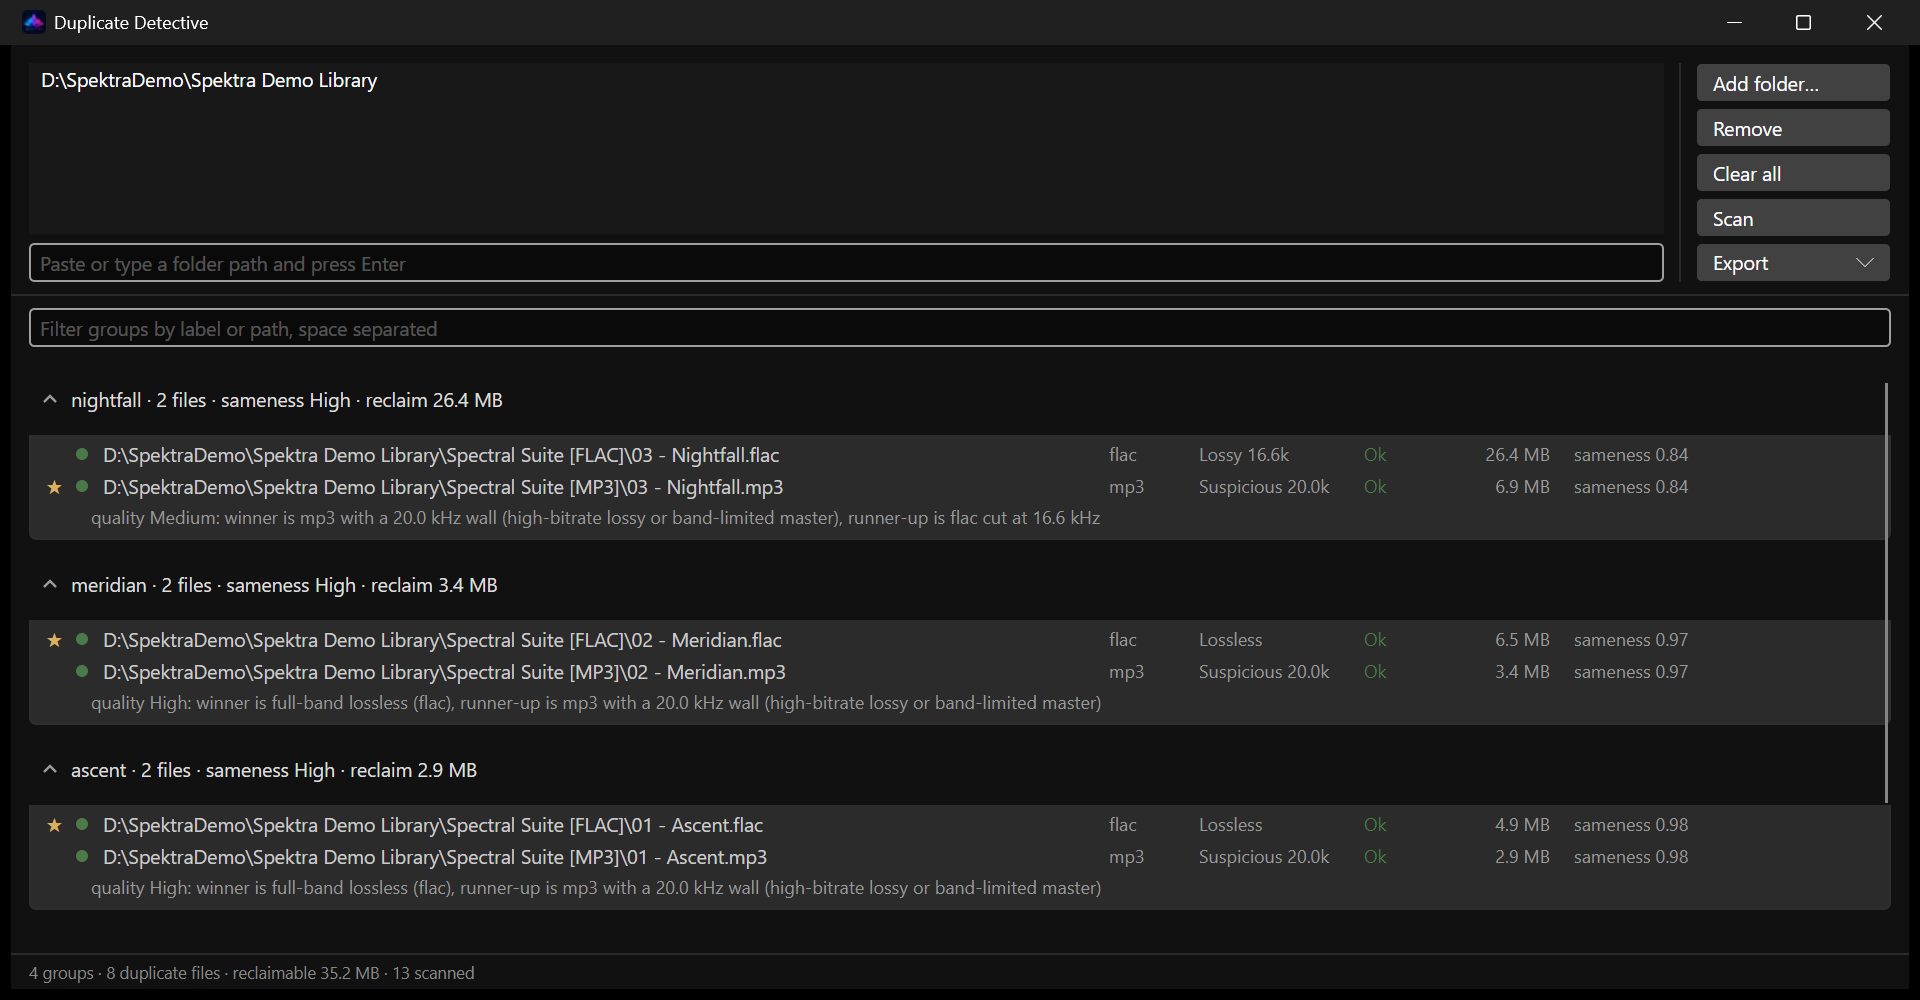
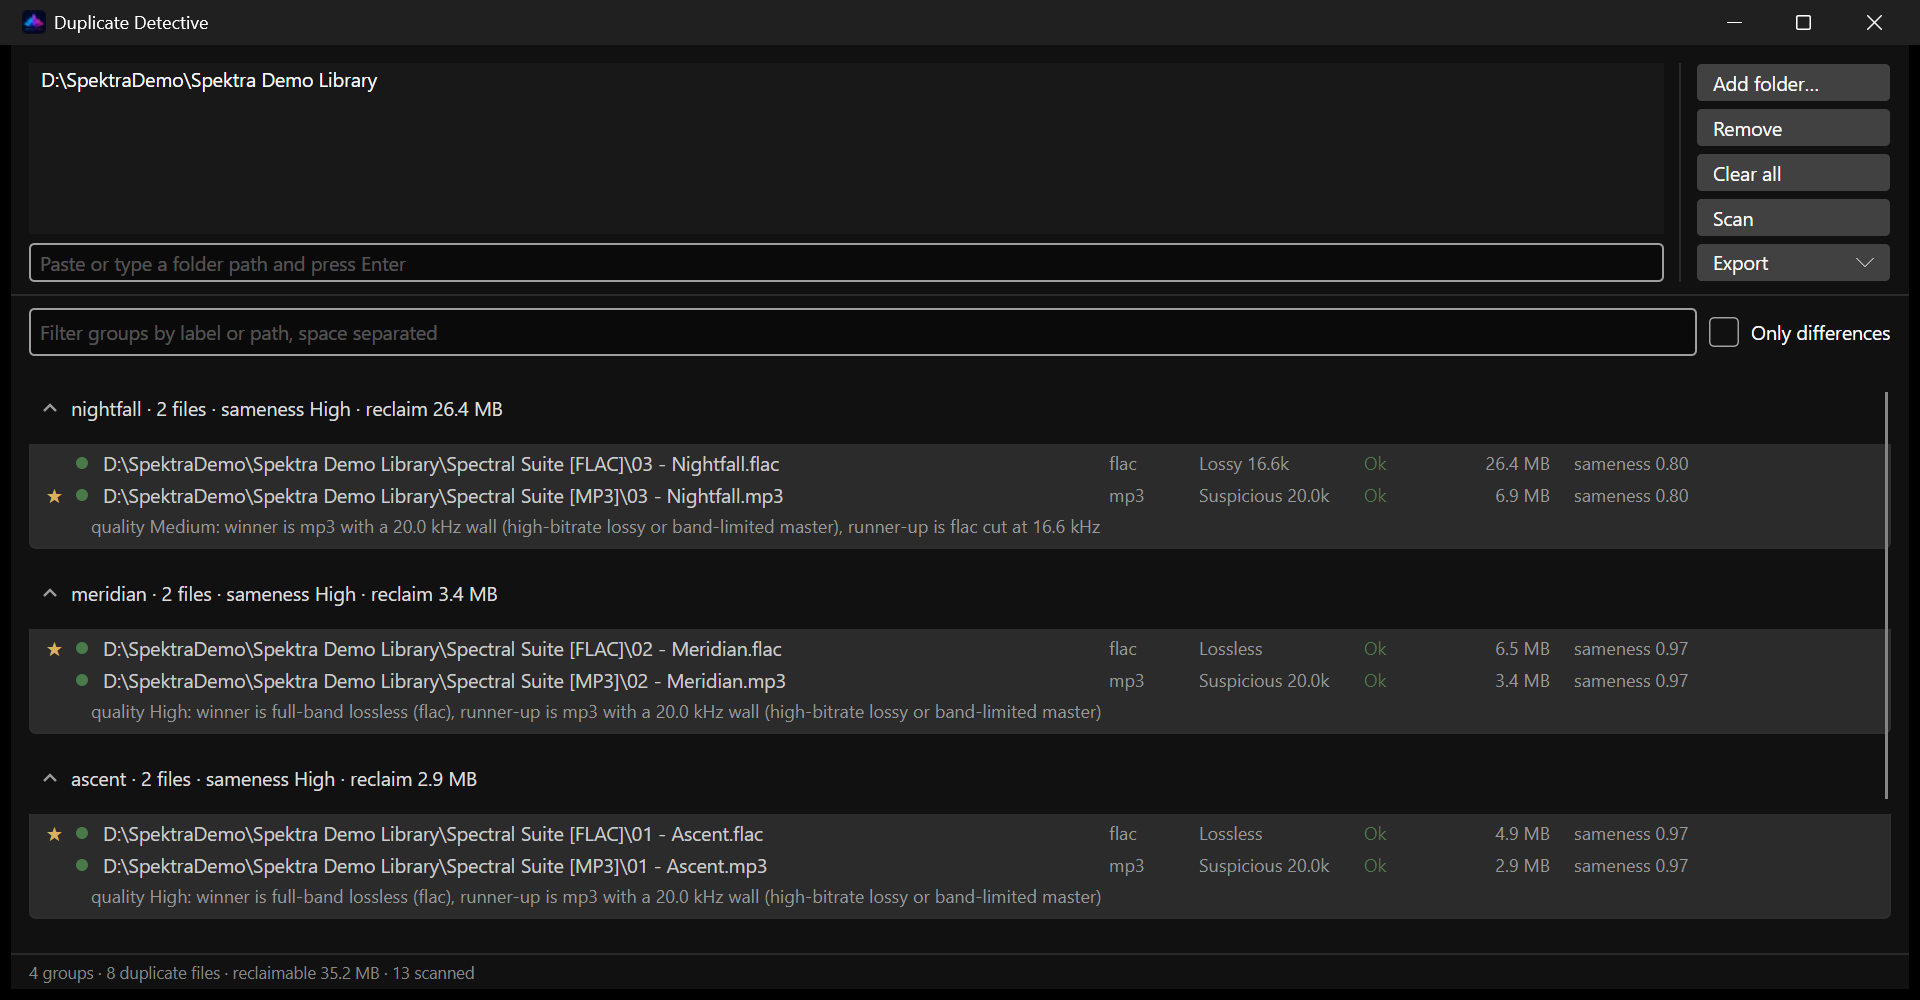
docs: reshoot the duplicates screenshot with the Only differences toggle
The README tells the reader to tick Only differences, and the picture
beside it was taken on 0.19.0, whose filter row was a single box with no
such checkbox. Reshot on the 0.20.0 build, where the filter box gives up
width to the toggle, and the alt text now names it so it is not visible
only to people who can see it.

The sameness scores move with the build (nightfall 0.84 to 0.80, ascent
0.98 to 0.97), which is cd5e851 scoring each pair against its own chance
agreement. Nothing else in the frame changed and the footer is identical.

The other three shots stay as they are: every commit touching what they
show was already in the build that took them, checked with merge-base
rather than by date. What has landed since is the matcher and the folder
diff, and both surface only in this window.

Changed region(s): [[0.0, 0.31, 1.0, 0.93], [0.875, 0.31, 1.0, 0.341]]

diff --git a/README.md b/README.md
@@ -57,7 +57,7 @@ Duplicate Detective matches by acoustic fingerprint, so the same song is found a
 
 <p align="center">
   <img src="assets/shot-duplicates.png" width="900"
-       alt="The Duplicate Detective window listing groups of duplicate tracks found across FLAC and MP3 copies of the same album, each group starring the better copy and explaining in words which one won and why." />
+       alt="The Duplicate Detective window listing groups of duplicate tracks found across FLAC and MP3 copies of the same album, each group starring the better copy and explaining in words which one won and why, with an unticked Only differences checkbox beside the filter box." />
 </p>
 
 Compare two encodes on a shared time axis, aligned automatically, with a signed A minus B difference view showing exactly what the smaller file threw away.
